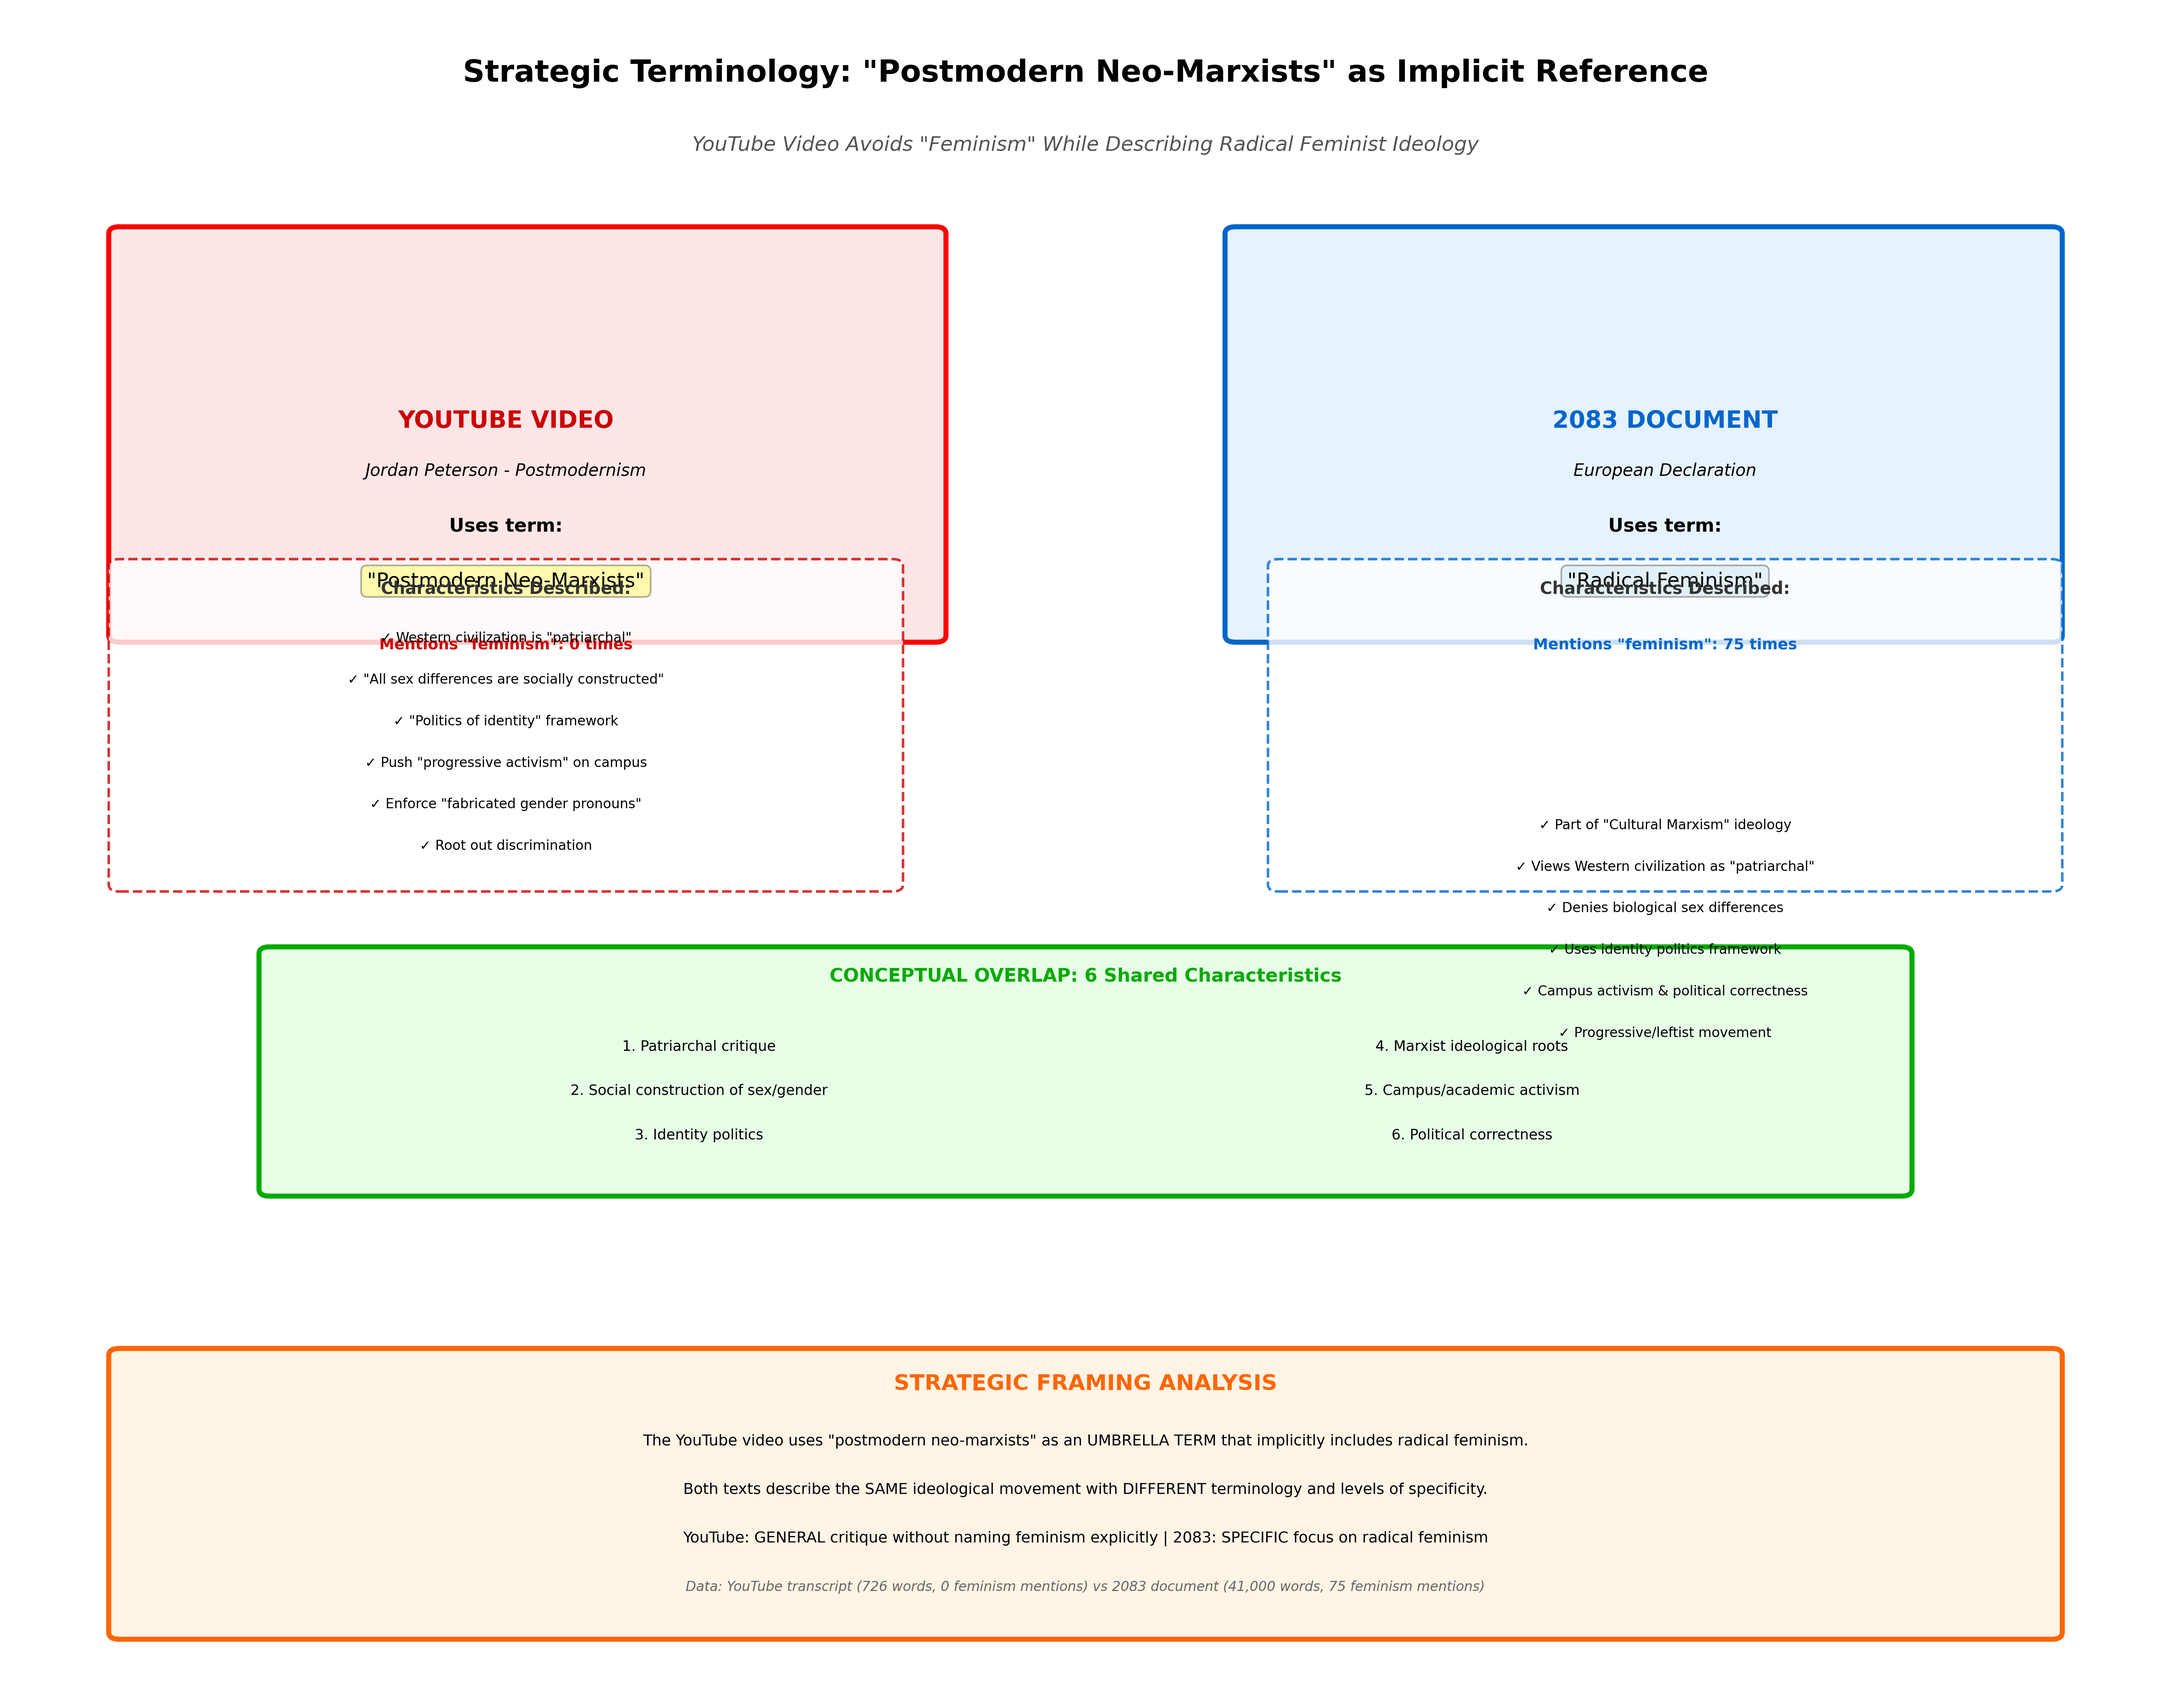
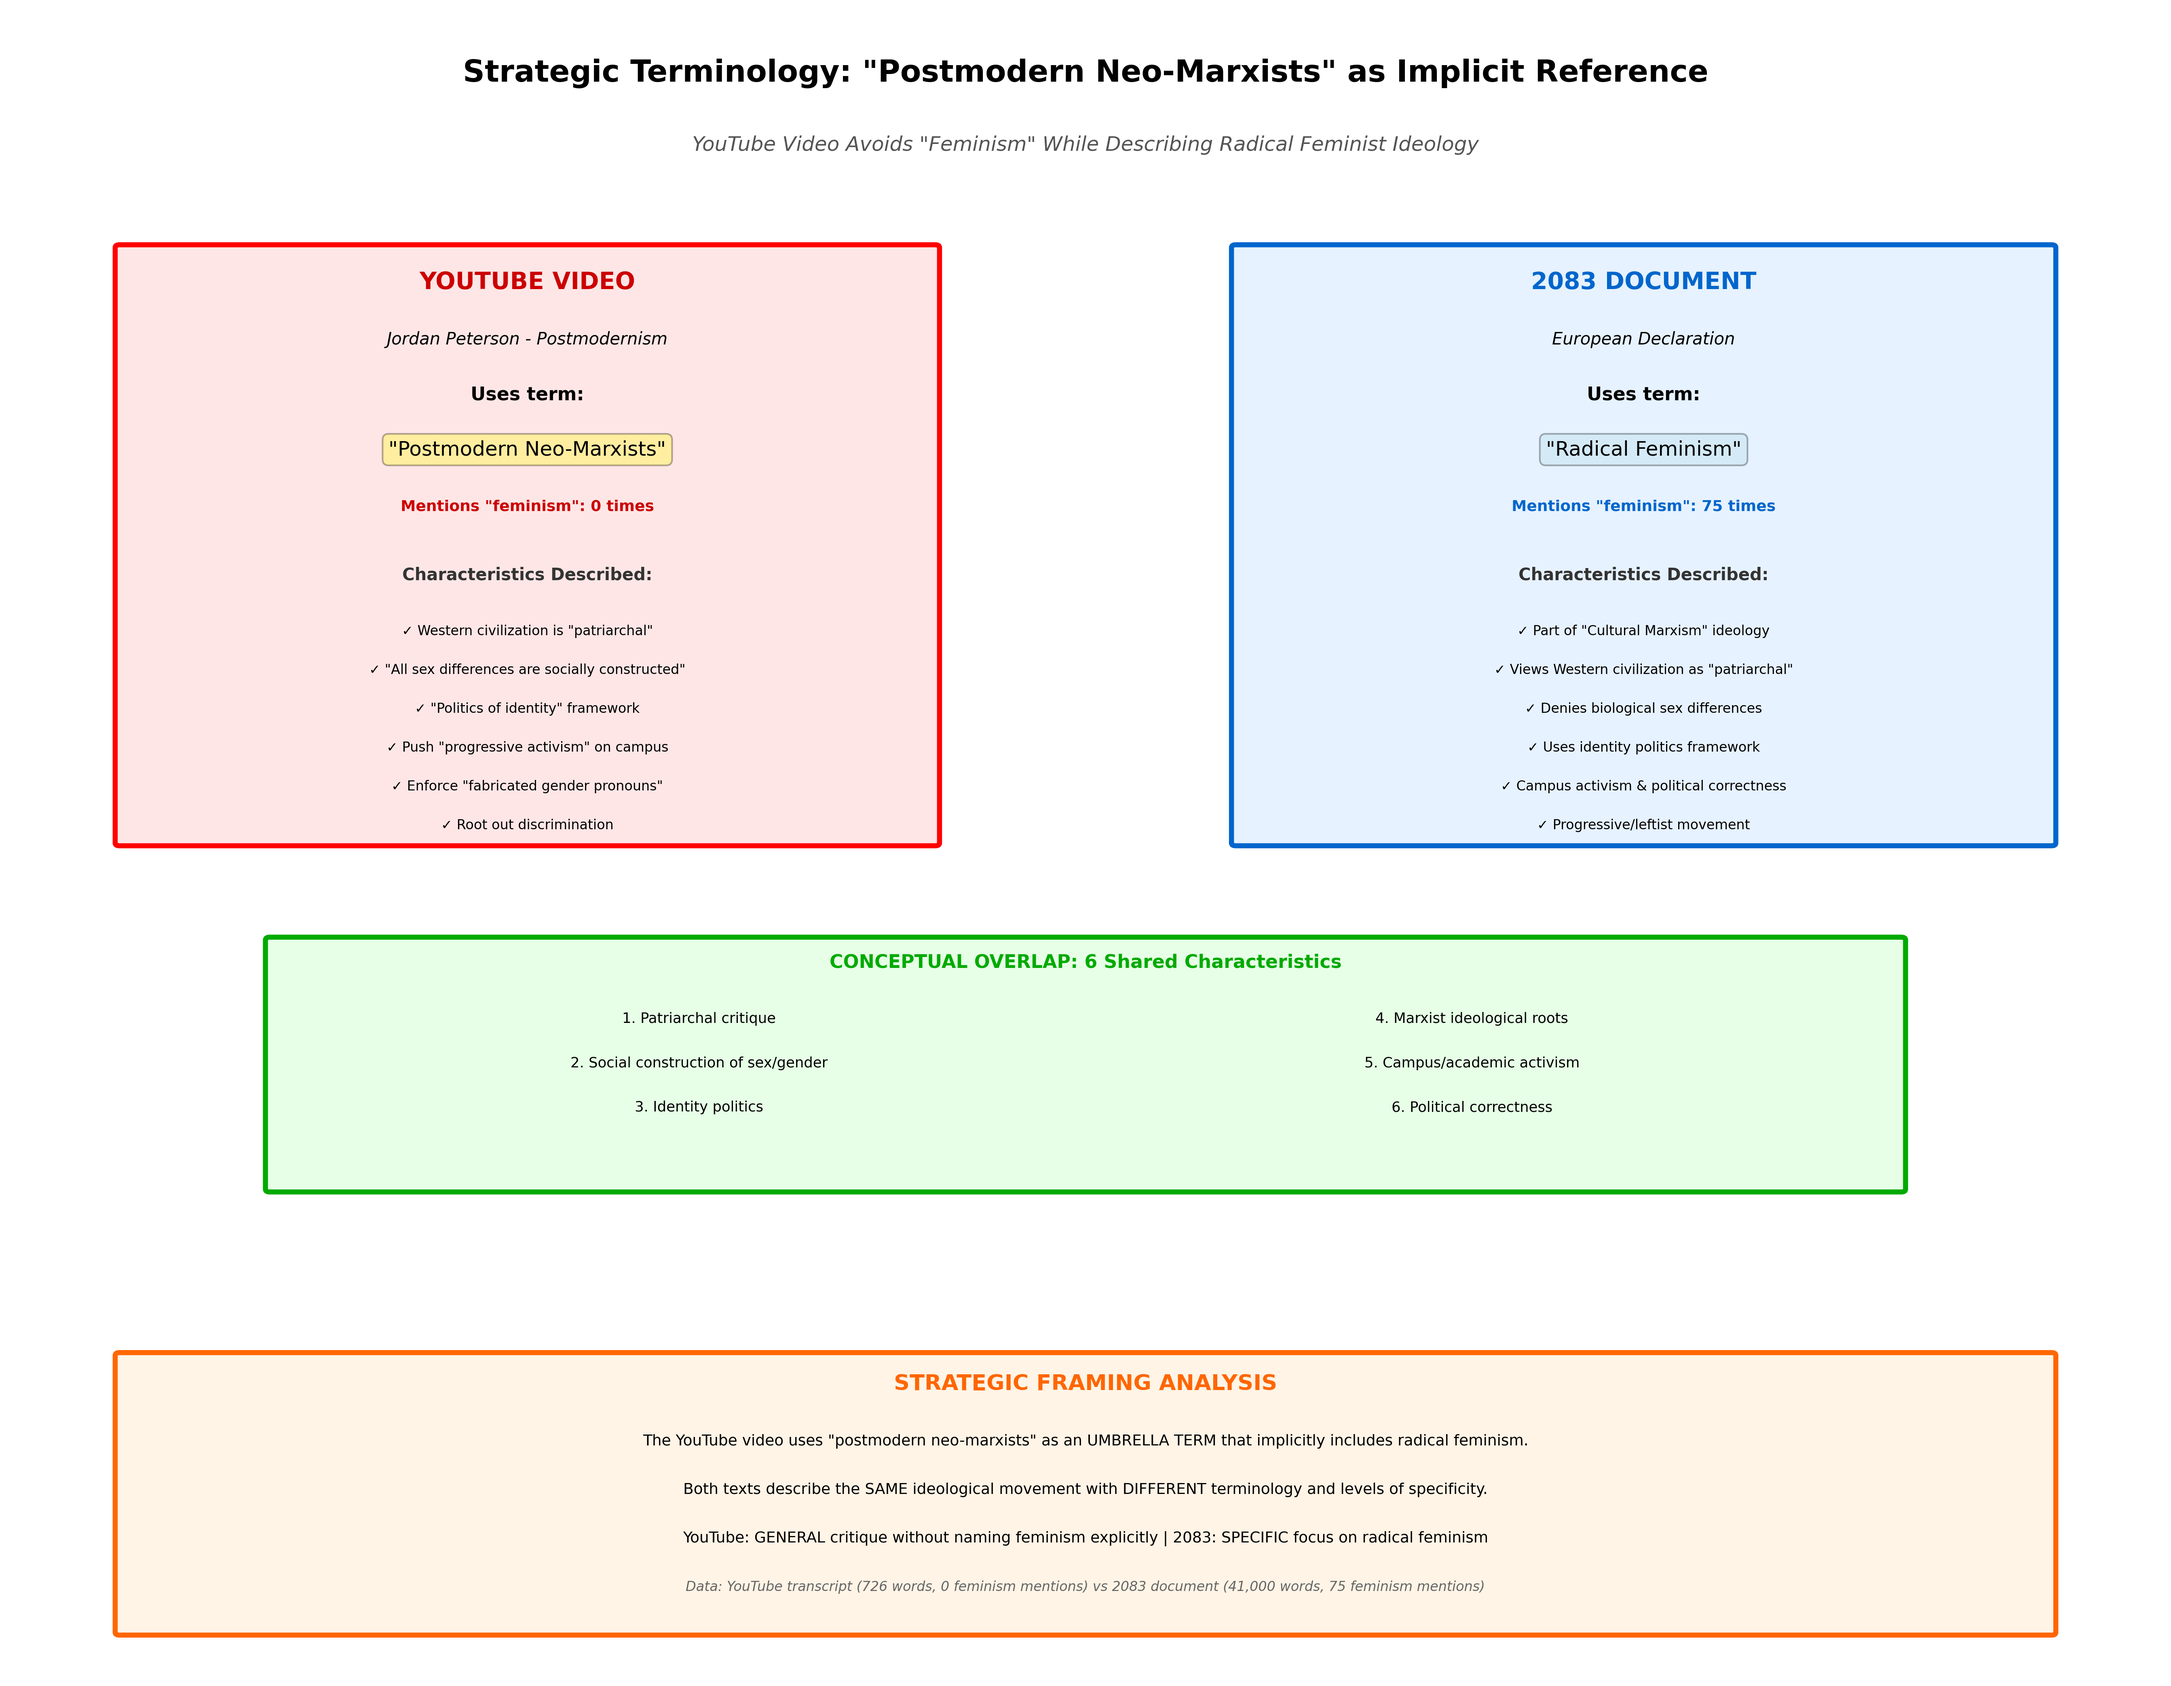
Remove dashed characteristic boxes and consolidate all text within main red/blue boxes with minimal padding

Changed region(s): [[0.0311, 0.1247, 0.9641, 0.5923], [0.0311, 0.7794, 0.9641, 0.9976], [0.0933, 0.5612, 0.9019, 0.717]]

diff --git a/visualize_implicit_feminism.py b/visualize_implicit_feminism.py
@@ -24,30 +24,22 @@ ax.text(5, 11.0, 'YouTube Video Avoids "Feminism" While Describing Radical Femin
 
 # LEFT SIDE: YouTube Video
 # Box for YouTube
-youtube_box = FancyBboxPatch((0.5, 7.5), 3.8, 2.9, 
-                             boxstyle="round,pad=0.05", 
+youtube_box = FancyBboxPatch((0.5, 6.0), 3.8, 4.3, 
+                             boxstyle="round,pad=0.02", 
                              edgecolor='#FF0000', facecolor='#FFE6E6', 
                              linewidth=3)
 ax.add_patch(youtube_box)
 
-ax.text(2.3, 9.0, 'YOUTUBE VIDEO', ha='center', fontsize=14, fontweight='bold', color='#CC0000')
-ax.text(2.3, 8.65, 'Jordan Peterson - Postmodernism', ha='center', fontsize=10, style='italic')
-ax.text(2.3, 8.25, 'Uses term:', ha='center', fontsize=11, fontweight='bold')
-ax.text(2.3, 7.85, '"Postmodern Neo-Marxists"', ha='center', fontsize=12, 
+ax.text(2.4, 10.0, 'YOUTUBE VIDEO', ha='center', fontsize=14, fontweight='bold', color='#CC0000')
+ax.text(2.4, 9.6, 'Jordan Peterson - Postmodernism', ha='center', fontsize=10, style='italic')
+ax.text(2.4, 9.2, 'Uses term:', ha='center', fontsize=11, fontweight='bold')
+ax.text(2.4, 8.8, '"Postmodern Neo-Marxists"', ha='center', fontsize=12, 
         bbox=dict(boxstyle='round', facecolor='yellow', alpha=0.3))
-ax.text(2.3, 7.4, 'Mentions "feminism": 0 times', ha='center', fontsize=9, 
+ax.text(2.4, 8.4, 'Mentions "feminism": 0 times', ha='center', fontsize=9, 
         color='#CC0000', fontweight='bold')
 
 # Characteristics of "postmodern neo-marxists" in YouTube
-# Add inner box for characteristics
-char_box_yt = FancyBboxPatch((0.5, 5.7), 3.6, 2.3,
-                             boxstyle="round,pad=0.05",
-                             edgecolor='#CC0000', facecolor='white',
-                             linewidth=1.5, linestyle='--', alpha=0.8)
-ax.add_patch(char_box_yt)
-
-char_y = 7.8
-ax.text(2.3, char_y, 'Characteristics Described:', ha='center', fontsize=10, 
+ax.text(2.4, 7.9, 'Characteristics Described:', ha='center', fontsize=10, 
         fontweight='bold', color='#333')
 characteristics_yt = [
     '✓ Western civilization is "patriarchal"',
@@ -58,35 +50,29 @@ characteristics_yt = [
     '✓ Root out discrimination'
 ]
 
-y_pos = char_y - 0.35
+y_pos = 7.5
 for char in characteristics_yt:
-    ax.text(2.3, y_pos, char, ha='center', fontsize=8, color='#000')
-    y_pos -= 0.3
+    ax.text(2.4, y_pos, char, ha='center', fontsize=8, color='#000')
+    y_pos -= 0.28
 
 # RIGHT SIDE: 2083 Document
 # Box for 2083
-doc_box = FancyBboxPatch((5.7, 7.5), 3.8, 2.9, 
-                         boxstyle="round,pad=0.05", 
+doc_box = FancyBboxPatch((5.7, 6.0), 3.8, 4.3, 
+                         boxstyle="round,pad=0.02", 
                          edgecolor='#0066CC', facecolor='#E6F2FF', 
                          linewidth=3)
 ax.add_patch(doc_box)
 
-ax.text(7.7, 9.0, '2083 DOCUMENT', ha='center', fontsize=14, fontweight='bold', color='#0066CC')
-ax.text(7.7, 8.65, 'European Declaration', ha='center', fontsize=10, style='italic')
-ax.text(7.7, 8.25, 'Uses term:', ha='center', fontsize=11, fontweight='bold')
-ax.text(7.7, 7.85, '"Radical Feminism"', ha='center', fontsize=12, 
+ax.text(7.6, 10.0, '2083 DOCUMENT', ha='center', fontsize=14, fontweight='bold', color='#0066CC')
+ax.text(7.6, 9.6, 'European Declaration', ha='center', fontsize=10, style='italic')
+ax.text(7.6, 9.2, 'Uses term:', ha='center', fontsize=11, fontweight='bold')
+ax.text(7.6, 8.8, '"Radical Feminism"', ha='center', fontsize=12, 
         bbox=dict(boxstyle='round', facecolor='lightblue', alpha=0.3))
-ax.text(7.7, 7.4, 'Mentions "feminism": 75 times', ha='center', fontsize=9, 
+ax.text(7.6, 8.4, 'Mentions "feminism": 75 times', ha='center', fontsize=9, 
         color='#0066CC', fontweight='bold')
-# Characteristics of "radical feminism" in 2083
-# Add inner box for characteristics
-char_box_doc = FancyBboxPatch((5.9, 5.7), 3.6, 2.3,
-                              boxstyle="round,pad=0.05",
-                              edgecolor='#0066CC', facecolor='white',
-                              linewidth=1.5, linestyle='--', alpha=0.8)
-ax.add_patch(char_box_doc)
 
-ax.text(7.7, 7.8, 'Characteristics Described:', ha='center', fontsize=10,
+# Characteristics of "radical feminism" in 2083
+ax.text(7.6, 7.9, 'Characteristics Described:', ha='center', fontsize=10,
         fontweight='bold', color='#333')
 characteristics_doc = [
     '✓ Part of "Cultural Marxism" ideology',
@@ -97,19 +83,19 @@ characteristics_doc = [
     '✓ Progressive/leftist movement'
 ]
 
-y_pos = 6.1
+y_pos = 7.5
 for char in characteristics_doc:
-    ax.text(7.7, y_pos, char, ha='center', fontsize=8, color='#000')
-    y_pos -= 0.3
+    ax.text(7.6, y_pos, char, ha='center', fontsize=8, color='#000')
+    y_pos -= 0.28
 
 # CENTER: Overlap analysis
-overlap_box = FancyBboxPatch((1.2, 3.5), 7.6, 1.7, 
-                             boxstyle="round,pad=0.05", 
+overlap_box = FancyBboxPatch((1.2, 3.5), 7.6, 1.8, 
+                             boxstyle="round,pad=0.02", 
                              edgecolor='#00AA00', facecolor='#E6FFE6', 
                              linewidth=3)
 ax.add_patch(overlap_box)
 
-ax.text(5, 5.0, 'CONCEPTUAL OVERLAP: 6 Shared Characteristics', 
+ax.text(5, 5.1, 'CONCEPTUAL OVERLAP: 6 Shared Characteristics', 
         ha='center', fontsize=11, fontweight='bold', color='#00AA00')
 
 shared = [
@@ -124,7 +110,7 @@ shared = [
 # Display shared characteristics in 2 columns
 col1_x = 3.2
 col2_x = 6.8
-y_start = 4.5
+y_start = 4.7
 
 for i, item in enumerate(shared):
     if i < 3:
@@ -136,7 +122,7 @@ for i, item in enumerate(shared):
 
 # BOTTOM: Conclusion box
 conclusion_box = FancyBboxPatch((0.5, 0.3), 9, 2.0, 
-                                boxstyle="round,pad=0.05", 
+                                boxstyle="round,pad=0.02", 
                                 edgecolor='#FF6600', facecolor='#FFF4E6', 
                                 linewidth=3)
 ax.add_patch(conclusion_box)
